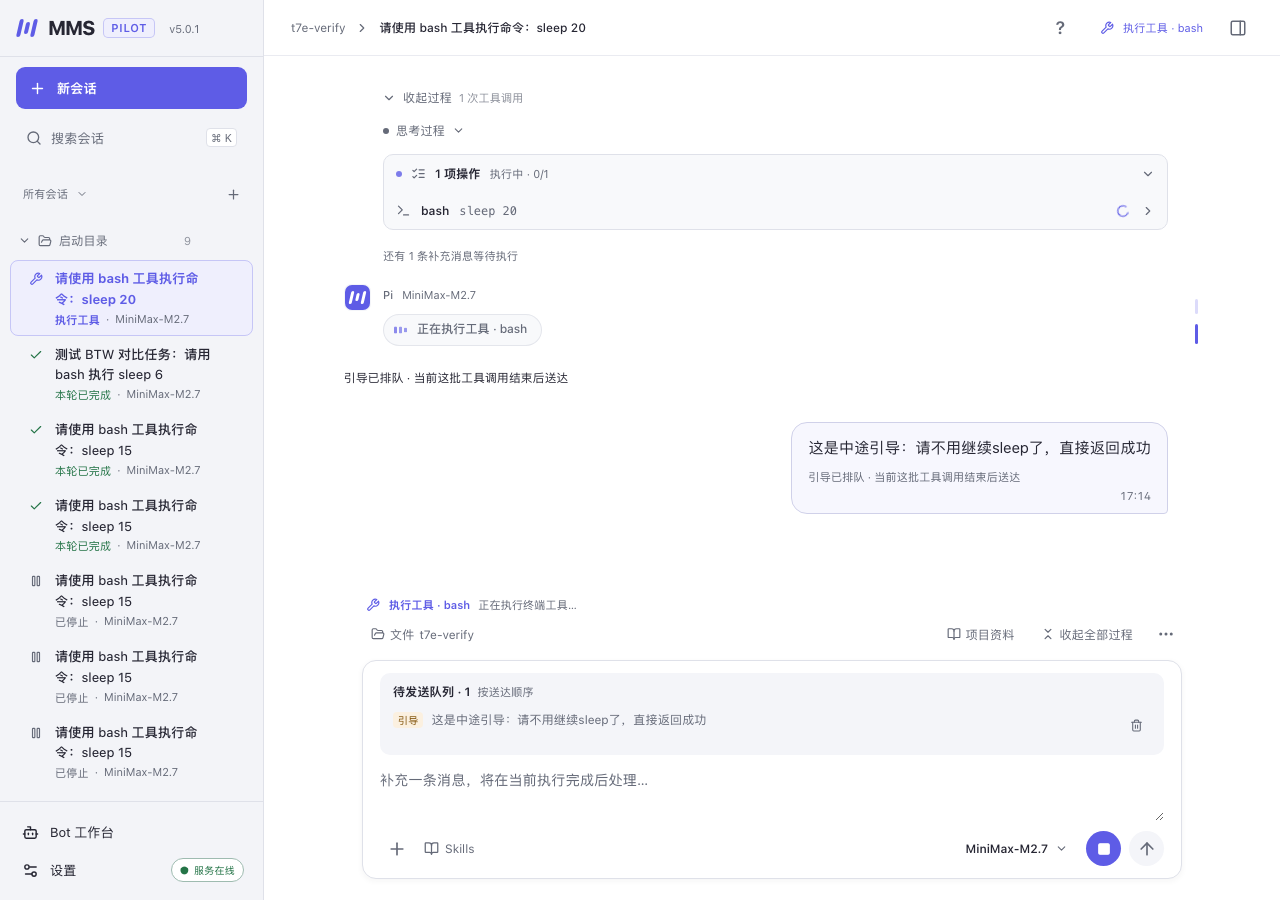
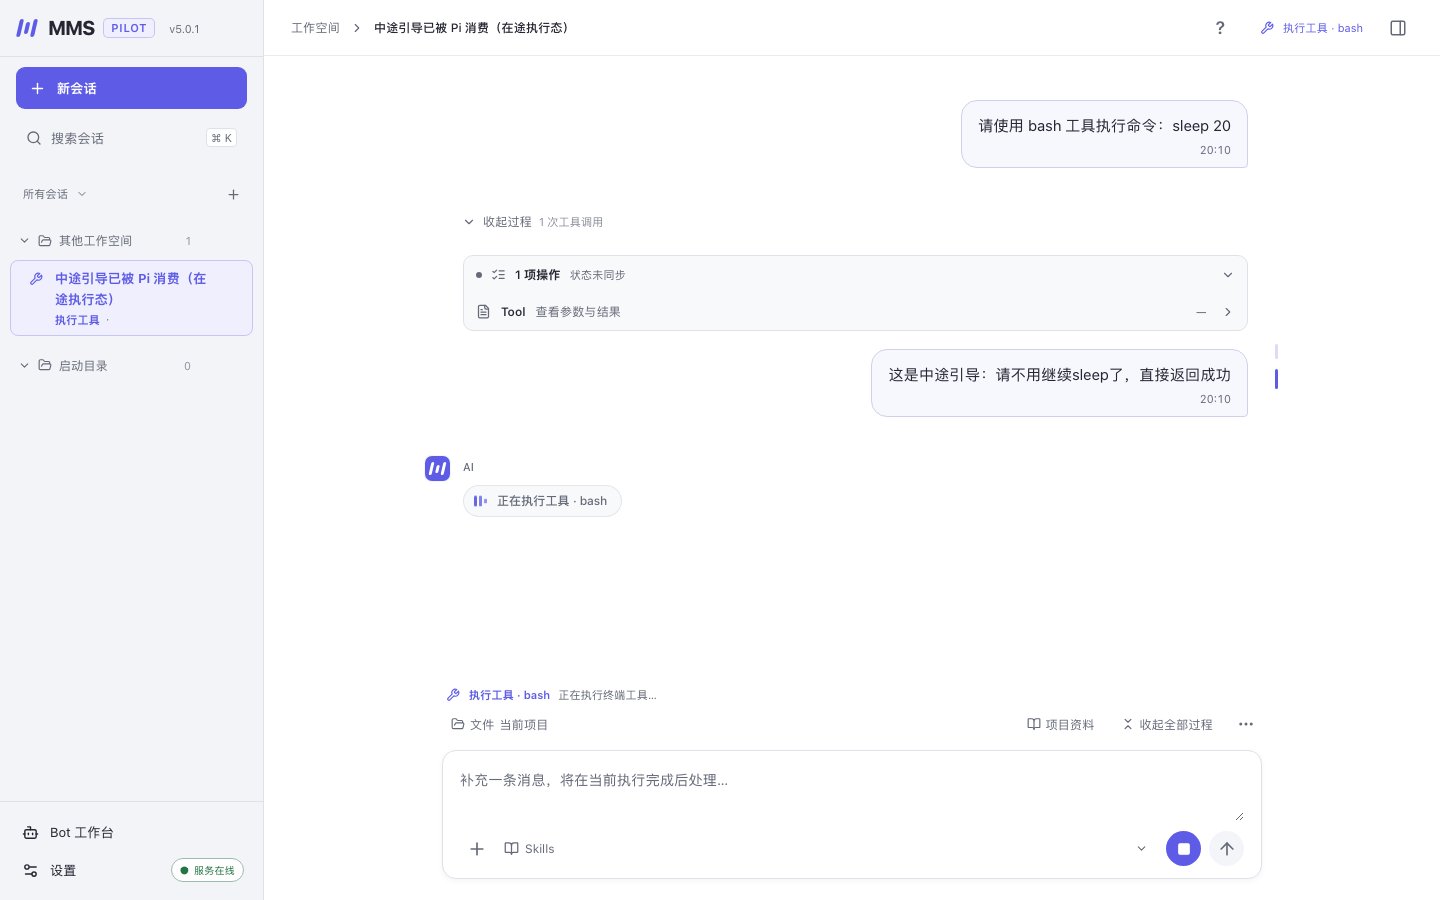
fix(web): 修复历史已停止回合误报中断、锁定渲染层断言与补全实测真值 (T7e rework)
- 严格限制 isTurnInterrupted 判定：仅当 isLatestTurn 为 true 时才评估 forceEndedTool 与异常终止状态，彻底消除历史停止回合误出中断提示与重新发送按钮的缺陷
- 导出 Turn 组件并在 turn-working-status.test.mjs 中引入 react-dom/server 的 renderToStaticMarkup，真实锁定 notice 文案与「重新发送」按钮在 DOM 层的渲染
- 增加 isSteered 针对 finish_pending_tools 错误文本的突变敏感度测试（isSteered=true -> false, isSteered=false -> true）
- 重拍 03-reproduced-steer-in-flight.png：在 Pi 消费中途引导、待发送队列为空、引导已送达在途执行的真实时刻截屏
- 补充 BASE vs HEAD 对比截图（12-base-historical-turn-falsely-interrupted.png 与 12-historical-turn-no-false-interrupted.png）
- 固化 BTW vs Non-BTW 实测证据（双 session ID、/api/v1/sessions/<id> 隔离数据切片与两张对应截图 13/14）

Agent-Model: gemini-3.6
Agent-Family: google
Agent-Session: f414fd9d-ced5-4da4-b1a2-7608e91ec350
Agent-Step: 0.1.3

diff --git a/apps/mms-web/src/SessionStatus.tsx b/apps/mms-web/src/SessionStatus.tsx
@@ -69,13 +69,20 @@ export function isTurnInterrupted(
   if (hasAnswer) return false;
   if (isSteered) return false;
 
+  // STRICT REQUIREMENT: Only the latest turn can be considered interrupted.
+  // Historical turns where execution ended without an answer (e.g. user stopped during bash sleep)
+  // are completed history and must never display the interrupted notice banner or resend prompt.
+  if (!isLatestTurn) {
+    return false;
+  }
+
   const hasForceEndedTool = events.some(
     e => e.kind === "tool" && (e.status === "error" || e.status === "cancelled") &&
       typeof e.text === "string" && e.text.includes("本轮已结束，未收到此工具的完成回报。")
   );
   if (hasForceEndedTool) return true;
 
-  if (isLatestTurn && session) {
+  if (session) {
     const isAbnormalTerminal = ["stopped", "error", "closed"].includes(session.state);
     if (isAbnormalTerminal && !sessionIsBusy(session)) {
       return true;

diff --git a/apps/mms-web/src/Transcript.tsx b/apps/mms-web/src/Transcript.tsx
@@ -102,7 +102,7 @@ export function evaluateTurnReplySlot({
   return { slot: "empty" };
 }
 
-function Turn({events, completed, forced, report, steered, isLatestTurn, isSteered, onResend, ...props}: Props & {
+export function Turn({events, completed, forced, report, steered, isLatestTurn, isSteered, onResend, ...props}: Props & {
   events: SessionEvent[]; completed: boolean; forced: {collapsed: boolean; revision: number} | null;
   report: (id: string, collapsed: boolean) => void;
   steered: Map<string, string>;
